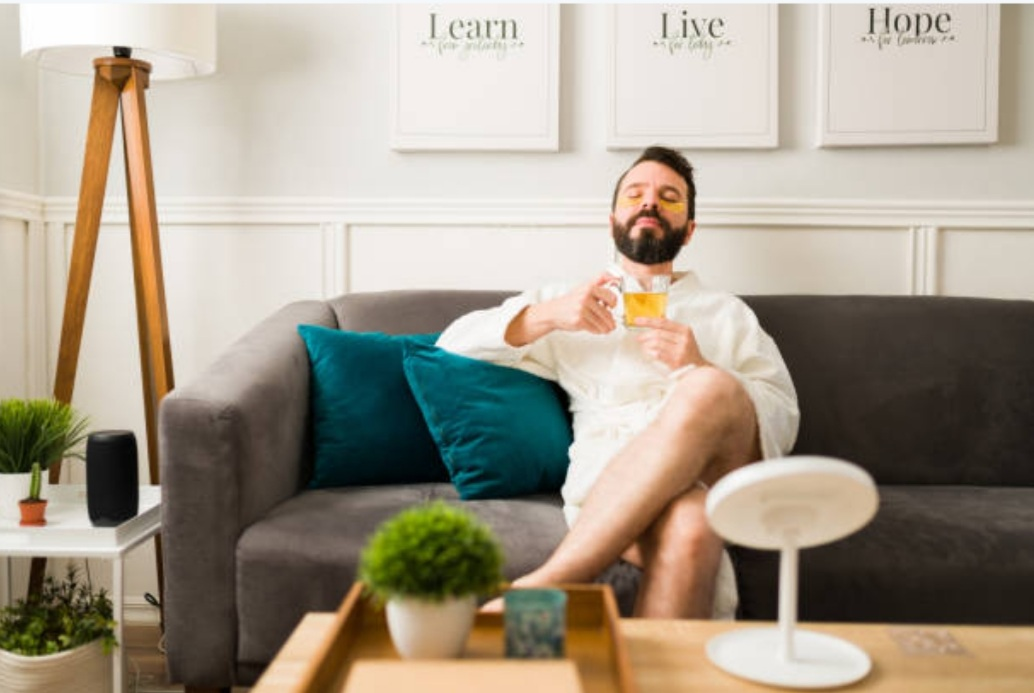
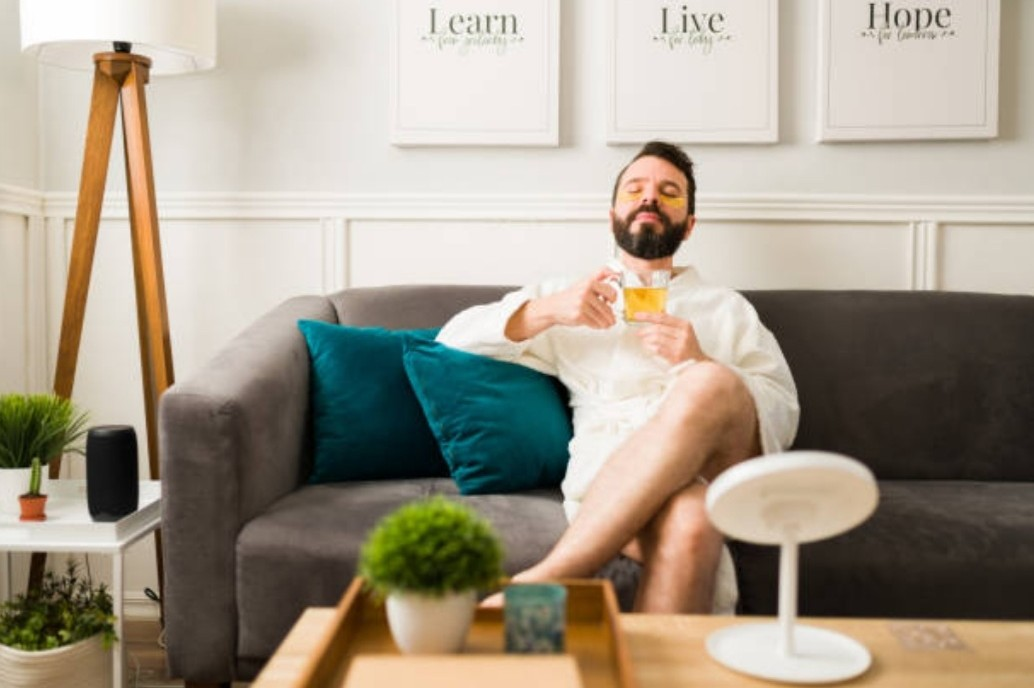
wip

diff --git a/public/assets/css/style.css b/public/assets/css/style.css
@@ -396,21 +396,14 @@ table.booking_detail tr.selected>* {
     transition: box-shadow 0.3s ease, transform 0.3s ease;
 }
 
-.rounded-card .custom-card-image {
-    aspect-ratio: 1;
-    border-radius: 50%;
-    margin: 24px auto 0;
-    width: 300px;
-}
-
-.custom-card-image {
+.custom-card .custom-card-image {
     aspect-ratio: 16 / 10;
     background: #f5f5f5;
     display: block;
     overflow: hidden;
 }
 
-.custom-card-image img {
+.custom-card .custom-card-image img {
     height: 100%;
     object-fit: cover;
     transition: transform 0.3s ease;
@@ -421,38 +414,38 @@ table.booking_detail tr.selected>* {
     transform: scale(1.04);
 }
 
-.custom-card-body {
+.custom-card .custom-card-body {
     display: flex;
     flex: 1;
     flex-direction: column;
     padding: 24px;
 }
 
-.custom-card-body h2 {
+.custom-card .custom-card-body h2 {
     color: var(--bo-blue);
-    font-size: 1.35rem;
-    font-weight: 700;
+    font-weight: bold;
+    font-size: 1rem;
     margin-bottom: 10px;
 }
 
-.custom-card-title {
+.custom-card .custom-card-title {
     font-weight: 600;
     font-size: 14px;
     margin-bottom: 12px;
 }
 
-.custom-card-summary {
+.custom-card .custom-card-summary {
     color: var(--text-muted);
     margin-bottom: 22px;
 }
 
-.custom-card-actions {
+.custom-card .custom-card-actions {
     display: flex;
     justify-content: center;
     align-items: center;
 }
 
-.custom-card-actions .btn {
+.custom-card .custom-card-actions .btn {
     padding: 10px 18px;
 }
 
@@ -563,65 +556,6 @@ table.booking_detail tr.selected>* {
     }
 }
 
-.owl-corousel-container {
-    position: relative;
-    padding: 20px;
-}
-
-.owl-corousel-container .owl-corousel-therapists {}
-
-.owl-corousel-container .owl-corousel-therapists .item {}
-
-.owl-corousel-container .owl-theme .custom-nav {
-    position: absolute;
-    margin: 0;
-    padding: 0;
-    height: auto;
-    top: 50%;
-    left: 0;
-    right: 0;
-}
-
-@media (max-width: 767.98px) {
-    .owl-corousel-container .owl-theme .custom-nav {
-        display: none;
-    }
-}
-
-.owl-corousel-container .owl-theme .custom-nav .owl-prev,
-.owl-corousel-container .owl-theme .custom-nav .owl-next {
-    position: absolute;
-    margin: 0px;
-    padding: 0;
-    color: inherit;
-    background: none;
-    order: none;
-    height: 40px;
-    border: 0;
-    z-index: 100;
-}
-
-.owl-corousel-container .owl-theme .custom-nav .owl-prev i,
-.owl-corousel-container .owl-theme .custom-nav .owl-next i {
-    font-size: 1rem;
-    background-color: var(--bo-blue);
-    width: 40px;
-    height: 40px;
-    border-radius: 50%;
-    display: flex;
-    justify-content: center;
-    align-items: center;
-}
-
-.owl-corousel-container .owl-theme .custom-nav .owl-prev {
-    left: -10px;
-    color: var(--bo-yellow);
-}
-
-.owl-corousel-container .owl-theme .custom-nav .owl-next {
-    right: -10px;
-    color: var(--bo-yellow);
-}
 
 /**********************************************/
 /* Navigation */

diff --git a/resources/views/frontend/modules/home/therapists.blade.php b/resources/views/frontend/modules/home/therapists.blade.php
@@ -1,4 +1,4 @@
-<div class="page-section-padding">
+<div class="pt60">
     <div class="row justify-content-center text-center">
         <div class="col-12">
             <span class="section-eyebrow">Our Professionals</span>
@@ -8,85 +8,97 @@
     </div>
 </div>
 
-<div class="row g-4">
-    <div class="owl-corousel-container">
+<div class="row g-4 pb60">
+    <div class="owl-corousel-therapists-container">
         <div class="owl-corousel-therapists owl-carousel owl-theme">
             @foreach($therapists as $therapist)
             <div class="item">
-                <article class="rounded-card h-100">
+                <article class="h-100">
                     @if($therapist->user_profile?->getRawOriginal('image'))
                     <a href="{{ route('therapist_detail', $therapist->therapist_profile->slug) }}" class="custom-card-image">
                         <img
                             src="{{ $therapist->user_profile->image }}"
                             alt="{{ $therapist->first_name }} {{ $therapist->last_name }}"
-                            class="img-fluid">
+                            class="rounded-circle">
                     </a>
                     @endif
 
-                    <div class="custom-card-body text-center">
-                        <h2>{{ $therapist->first_name }} {{ $therapist->last_name }}</h2>
+                    <div class="text-center">
+                        <h2>{{ $therapist->first_name }}</h2>
 
-                        @if($therapist->therapist_profile->about)
-                        <div class="custom-card-summary">
-                            {{ Str::limit(strip_tags($therapist->therapist_profile->about), 40) }}
-                        </div>
-                        @endif
-
-                        <div class="custom-card-actions justify-content-center">
-                            <div class="custom-card-details-link">
-                                <a href="{{ route('therapist_detail', $therapist->therapist_profile->slug) }}" class="btn btn-primary">View Therapist</a>
-                            </div>
+                        <div class="justify-content-center">
+                            <a href="{{ route('therapist_detail', $therapist->therapist_profile->slug) }}" class="link-primary">View Profile</a>
                         </div>
                     </div>
                 </article>
             </div>
             @endforeach
         </div>
-        <div class="owl-theme">
-            <div class="owl-controls">
-                <div class="custom-nav owl-nav"></div>
-            </div>
-        </div>
+
     </div>
 </div>
+
+@push('pageCss')
+<style>
+    .owl-corousel-therapists-container {
+        padding: 20px 0;
+    }
+
+    .owl-corousel-therapists-container .item:hover img {
+        transform: scale(1.04);
+    }
+
+    .owl-corousel-therapists h2 {
+        color: var(--bo-blue);
+        font-size: 1.5em;
+        margin: 20px 0;
+    }
+
+    .owl-corousel-therapists .link-primary {
+        color: var(--bo-blue) !important;
+        font-size: 1em;
+    }
+
+    .owl-corousel-therapists .link-primary:hover {
+        font-weight: bold;
+    }
+
+    .owl-corousel-therapists .owl-nav button.owl-prev,
+    .owl-corousel-therapists .owl-nav button.owl-next {
+        width: 40px;
+        height: 40px;
+        border-radius: 50%;
+        background: var(--bo-blue);
+        color: #fff;
+    }
+</style>
+@endpush
 
 @push('pageScripts')
 <script>
     $(document).ready(function() {
         $('.owl-corousel-therapists').owlCarousel({
-            navContainer: '.owl-corousel-container .custom-nav',
             nav: true,
+            dots: false,
             loop: true,
-            items: 3,
+            margin: 10,
+            center: true,
+            autowidth: true,
+            stagePadding: 40,
             responsive: {
                 0: {
-                    items: 1,
-                    stagePadding: 0,
-                    dots: true,
-                    mouseDrag: true,
-                },
-                768: {
-                    items: 2,
-                    stagePadding: 0,
-                    dots: true,
+                    items: 3,
                     mouseDrag: true,
                 },
                 992: {
-                    items: 3,
-                    stagePadding: 5,
-                    dots: false,
+                    items: 5,
                     mouseDrag: false,
                 }
             },
-            center: true,
-            margin: 20,
-            stagePadding: 40,
             navText: [
                 '<i class="fa fa-arrow-left" aria-hidden="true"></i>',
                 '<i class="fa fa-arrow-right" aria-hidden="true"></i>'
-            ],
-            autowidth: true,
-
+            ]
         });
     });
 </script>

diff --git a/app/Http/Controllers/HomeController.php b/app/Http/Controllers/HomeController.php
@@ -47,7 +47,7 @@ class HomeController extends Controller
             ->whereHas('therapist_profile', function ($query) {
                 $query->where('on_therapist_page', true);
             })
-            ->with(['user_profile', 'therapist_profile'])
+            ->with(['user_profile', 'therapist_profile', 'treatments'])
             ->orderBy('first_name')
             ->orderBy('last_name')
             ->get();
@@ -64,12 +64,18 @@ class HomeController extends Controller
             ->limit(6)
             ->get();
 
+        $evaluationTotal = Review::where('active', 1)->whereNotNull('evaluation')->sum('evaluation');
+        $totalReviews = Review::where('active', 1)->whereNotNull('evaluation')->count();
+        $averageRating = $totalReviews > 0 ? round($evaluationTotal / $totalReviews, 1) : 0;
+
         return view('frontend.modules.home.index', [
             'treatmentCategories' => $treatmentCategories,
             'therapists' => $therapists,
             'banner' => $banner,
             'faqs' => $faqs,
-            'reviews' => $review
+            'reviews' => $review,
+            'totalReviews' => $totalReviews,
+            'averageRating' => $averageRating
         ]);
     }
 

diff --git a/resources/views/frontend/modules/home/treatment-categories.blade.php b/resources/views/frontend/modules/home/treatment-categories.blade.php
@@ -1,4 +1,4 @@
-<div class="page-section">
+<div class="page-section-padding">
     <div class="row justify-content-center text-center">
         <div class="col-12">
             <span class="section-eyebrow">Out at-home Treatments</span>
@@ -8,13 +8,13 @@
     </div>
 </div>
 
-<div class="row g-4 mt60">
+<div class="row g-4 pb60">
     @foreach($treatmentCategories as $treatmentCategory)
     <div class="col-12 col-md-6 col-lg-4">
         <article class="custom-card h-100">
 
             @if($treatmentCategory->getRawOriginal('image'))
-            <a href="{{ route('treatment_detail', $treatmentCategory->slug) }}" class="custom-card-image">
+            <a href="{{ route('treatments', ['category' => $treatmentCategory->slug]) }}" class="custom-card-image">
                 <img
                     src="{{ $treatmentCategory->image }}"
                     class="img-fluid">

diff --git a/resources/views/frontend/modules/home/reviews.blade.php b/resources/views/frontend/modules/home/reviews.blade.php
@@ -19,6 +19,13 @@
             </div>
         </div>
 
+        <div class="col-6 offset-3">
+            <p class="text-center">We take pride in providing exceptional massage services to our clients. Here are some of the reviews and testimonials from our satisfied customers.</p>
+            <p class="text-center"><strong>Outstanding</strong> <br /><img src="{{ asset('assets/img/star.png') }}" alt="5-star-reviews-icon" title="alt=" width="124" /></p>
+            <p class="text-center">Average rating {{ $averageRating }}/5.00 from {{ $totalReviews }} reviews</p>
+            <p class="text-center">Best Rating 5/5</p>
+        </div>
+
         <div class="d-flex justify-content-center text-center mb-4">
             <a href="{{ route('reviews') }}" class="btn btn-primary" title="Read More Reviews">
                 Read More Reviews

diff --git a/resources/views/frontend/modules/reviews/index.blade.php b/resources/views/frontend/modules/reviews/index.blade.php
@@ -45,7 +45,7 @@ Read reviews from our satisfied customers.
                         @if($review->evaluation)
                         <span class="float-right review-rating">Rated:
                             @for($i=1; $i<= $review->evaluation; $i++)
-                                <img src="{{ asset('assets/img/reviews/stars/star-on.png') }}" alt="Star Rating" />
+                                <img src="{{ asset('assets/img/star-single.png') }}" alt="Star Rating" />
                                 @endfor
                         </span>
                         @endif

diff --git a/resources/views/frontend/modules/therapists/index.blade.php b/resources/views/frontend/modules/therapists/index.blade.php
@@ -19,7 +19,7 @@
         <div class="row g-4">
             @forelse($therapists as $therapist)
             <div class="col-12 col-md-6 col-lg-4">
-                <article class="custom-card rounded-card h-100">
+                <article class="custom-card h-100">
                     @if($therapist->user_profile?->getRawOriginal('image'))
                     <a href="{{ route('therapist_detail', $therapist->therapist_profile->slug) }}" class="custom-card-image">
                         <img

diff --git a/resources/views/frontend/modules/home/index.blade.php b/resources/views/frontend/modules/home/index.blade.php
@@ -44,13 +44,13 @@ treatments with genuine care, from just £59
     </div>
 </div>
 
-<div class="container pb60">
-    @include('frontend.modules.home.treatment-categories')
+<div class="container">
+    @include('frontend.modules.home.reviews')
 </div>
 
 <div class="container-fluid gold-bg">
     <div class="container">
-        @include('frontend.modules.home.reviews')
+        @include('frontend.modules.home.treatment-categories')
     </div>
 </div>
 

diff --git a/resources/views/frontend/modules/home/cta.blade.php b/resources/views/frontend/modules/home/cta.blade.php
@@ -1,4 +1,4 @@
-<div class="page-section">
+<div class="page-section-padding">
     <div class="row home-cta">
         <div class="col-md-7">
             <div class="home-cta-media">
